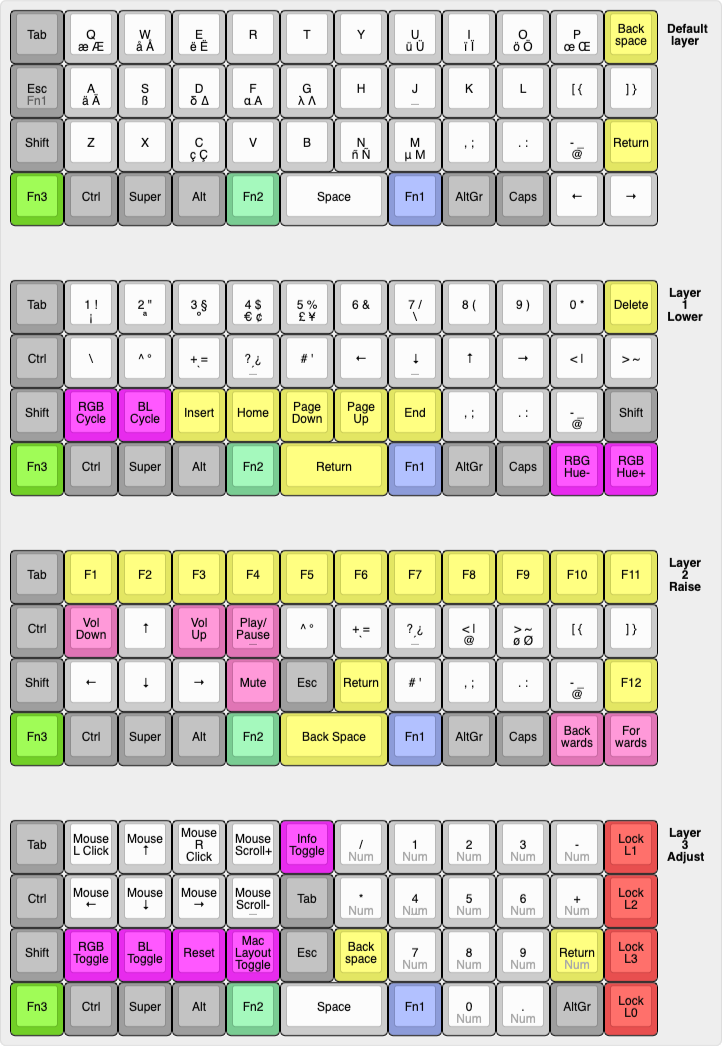
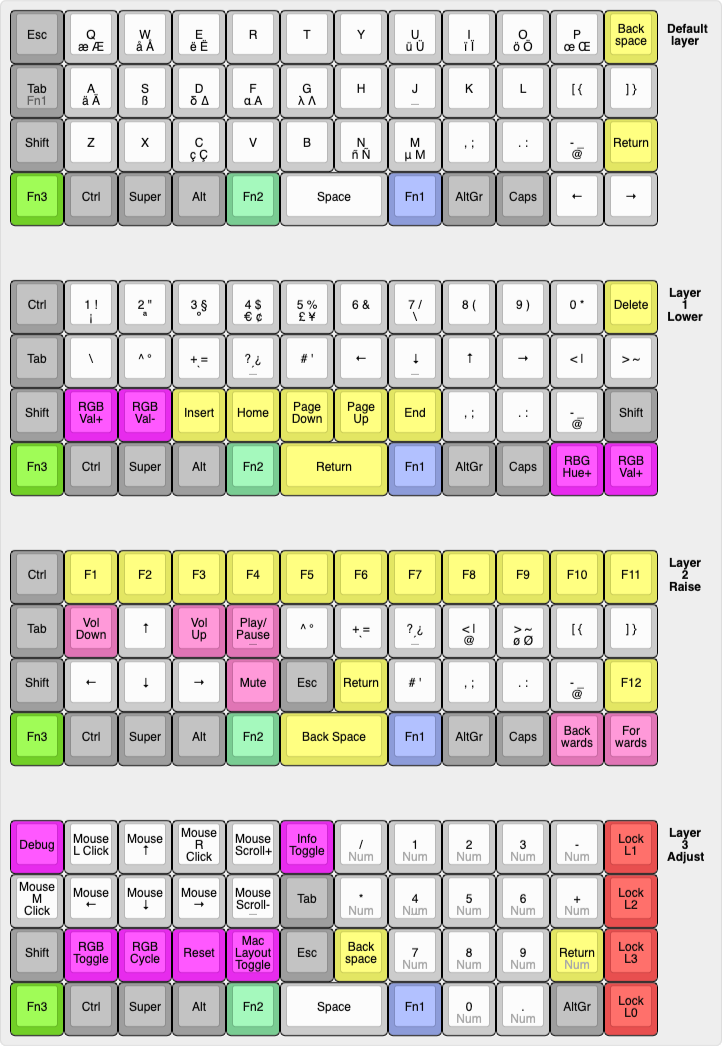
improvements to the keymap - updated keymap a bit (swapped esc and tab, changed some rgb related things, ...) - fixed bugs in the keymap which weren't apparent before actually trying to use it on an actual device - added basic debugging support (when enabled prints the current layer)

diff --git a/keymap.c b/keymap.c
@@ -15,6 +15,9 @@
  */
 
 #include QMK_KEYBOARD_H
+#ifdef CONSOLE_ENABLE
+#include <print.h>
+#endif
 
 enum leds {
 	LED00, LED01, LED02,
@@ -70,77 +73,77 @@ const uint16_t PROGMEM keymaps[][MATRIX_ROWS][MATRIX_COLS] = {
 
 	/* Linux - Base
 	 * ,-----------------------------------------------------------------------------------.
-	 * | Tab  |   Q  |   W  |   E  |   R  |   T  |   Y  |   U  |   I  |   O  |   P  | Bksp |
+	 * | Esc  |   Q  |   W  |   E  |   R  |   T  |   Y  |   U  |   I  |   O  |   P  | Bksp |
 	 * |------+------+------+------+------+-------------+------+------+------+------+------|
-	 * | Esc  |   A  |   S  |   D  |   F  |   G  |   H  |   J  |   K  |   L  |   [  |  ]   |
+	 * | Tab  |   A  |   S  |   D  |   F  |   G  |   H  |   J  |   K  |   L  |   [  |  ]   |
 	 * |------+------+------+------+------+------|------+------+------+------+------+------|
 	 * | Shift|   Z  |   X  |   C  |   V  |   B  |   N  |   M  |   ,  |   .  |   /  |Enter |
 	 * |------+------+------+------+------+------+------+------+------+------+------+------|
-	 * |  Fn1 | Ctrl | Super|  Alt | Raise|    Space    | Lower|AltGr | Caps | Left |Right |
+	 * |Adjust| Ctrl | Super|  Alt | Raise|    Space    | Lower|AltGr | Caps | Left |Right |
 	 * `-----------------------------------------------------------------------------------'
    */
 	[_L_BASE] = LAYOUT_planck_mit(
-		KC_TAB,        KC_Q,    KC_W,    KC_E,    KC_R,    KC_T, KC_Y, KC_U,    KC_I,    KC_O,    KC_P,     KC_BSPC, 
-		_ESCAPE_LOWER, KC_A,    KC_S,    KC_D,    KC_F,    KC_G, KC_H, KC_J,    KC_K,    KC_L,    KC_LBRC,  KC_RBRC, 
-		KC_LSFT,       KC_Z,    KC_X,    KC_C,    KC_V,    KC_B, KC_N, KC_M,    KC_COMM, KC_DOT,  KC_SLSH,  KC_ENT, 
-		L_ADJUST,      KC_LCTL, KC_LGUI, KC_LALT, L_RAISE, KC_SPC,     L_LOWER, KC_RALT, KC_CAPS, KC_LEFT,  KC_RGHT),
+		KC_ESC,       KC_Q,    KC_W,    KC_E,    KC_R,    KC_T, KC_Y, KC_U,    KC_I,    KC_O,    KC_P,     KC_BSPC, 
+		_L_TAB_LOWER, KC_A,    KC_S,    KC_D,    KC_F,    KC_G, KC_H, KC_J,    KC_K,    KC_L,    KC_LBRC,  KC_RBRC, 
+		KC_LSFT,      KC_Z,    KC_X,    KC_C,    KC_V,    KC_B, KC_N, KC_M,    KC_COMM, KC_DOT,  KC_SLSH,  KC_ENT, 
+		L_ADJUST,     KC_LCTL, KC_LGUI, KC_LALT, L_RAISE, KC_SPC,     L_LOWER, KC_RALT, KC_CAPS, KC_LEFT,  KC_RGHT),
 
 	/* Linux Lower
 	 * ,-----------------------------------------------------------------------------------.
-	 * | Tab  |   1  |   2  |   3  |   4  |   5  |   6  |   7  |   8  |   9  |   0  | Del  |
+	 * | Ctrl |   1  |   2  |   3  |   4  |   5  |   6  |   7  |   8  |   9  |   0  | Del  |
 	 * |------+------+------+------+------+-------------+------+------+------+------+------|
-	 * | Ctrl |  \*  |   ^  |   -  |   =  |   \  | Left | Down |  Up  |Right |   ;  |  '   |
+	 * | Tab  |  \*  |   ^  |   -  |   =  |   \  | Left | Down |  Up  |Right |   ;  |  '   |
 	 * |------+------+------+------+------+------|------+------+------+------+------+------|
-	 * | Shift| RGB C| BL C |  Ins | Home | P Up |P Down| End  |   ,  |   .  |   /  |Shift |
+	 * | Shift| Val- | Val+ |  Ins | Home | P Up |P Down| End  |   ,  |   .  |   /  |Shift |
 	 * |------+------+------+------+------+------+------+------+------+------+------+------|
-	 * | Lower| Ctrl | Super|  Alt | Raise|    Enter    |Lower |AltGr | Caps | Hue+ | Val+ |
+	 * |Adjust| Ctrl | Super|  Alt | Raise|    Enter    |Lower |AltGr | Caps | Hue+ | Sat+ |
 	 * `-----------------------------------------------------------------------------------'
    */
 	[_L_LOWER] = LAYOUT_planck_mit(
-		KC_TAB,  KC_1,    	   KC_2,    KC_3,    KC_4,    KC_5,    KC_6,    KC_7,    KC_8,    KC_9,     KC_0,    KC_DEL, 
-		KC_RCTL, _L_BACKSLASH, KC_GRV,  KC_MINS, KC_EQL,  KC_BSLS, KC_LEFT, KC_DOWN, KC_UP,   KC_RGHT,  KC_SCLN, KC_QUOT, 
-		KC_TRNS, RGB_TOG,			 BL_TOGG, KC_INS,  KC_HOME, KC_PGDN, KC_PGUP, KC_END,  KC_COMM, KC_DOT,   KC_SLSH, KC_RSFT, 
-		KC_TRNS, KC_TRNS,			 KC_TRNS, KC_TRNS, KC_TRNS, KC_ENT,           KC_TRNS, KC_TRNS, KC_TRNS,  RGB_HUI, RGB_VAI),
+		KC_RCTL, KC_1,    	   KC_2,    KC_3,    KC_4,    KC_5,    KC_6,    KC_7,    KC_8,    KC_9,     KC_0,    KC_DEL, 
+		KC_TRNS, _L_BACKSLASH, KC_GRV,  KC_MINS, KC_EQL,  KC_BSLS, KC_LEFT, KC_DOWN, KC_UP,   KC_RGHT,  KC_SCLN, KC_QUOT, 
+		KC_TRNS, RGB_VAD,			 RGB_VAI, KC_INS,  KC_HOME, KC_PGDN, KC_PGUP, KC_END,  KC_COMM, KC_DOT,   KC_SLSH, KC_RSFT, 
+		KC_TRNS, KC_TRNS,			 KC_TRNS, KC_TRNS, KC_TRNS, KC_ENT,           KC_TRNS, KC_TRNS, KC_TRNS,  RGB_HUI, RGB_SAI),
 
 	/* Linux Raise
 	 * ,-----------------------------------------------------------------------------------.
-	 * | Tab  |  F1  |  F2  |  F3  |  F4  |  F5  |  F6  |  F7  |  F8  |  F9  | F10  | F11  |
+	 * | Ctrl  |  F1  |  F2  |  F3  |  F4  |  F5  |  F6  |  F7  |  F8  |  F9  | F10  | F11  |
 	 * |------+------+------+------+------+-------------+------+------+------+------+------|
-	 * | Ctrl |Vol Up|  Up  |VolDwn| Play |      |      |      |      |      |   [  |  ]   |
+	 * | Tab  |Vol Up|  Up  |VolDwn| Play |      |      |      |      |      |   [  |  ]   |
 	 * |------+------+------+------+------+------|------+------+------+------+------+------|
 	 * | Shift| Left | Down | Right| Mute |  Esc |Enter | End  |   ,  |   .  |   /  | F12  |
 	 * |------+------+------+------+------+------+------+------+------+------+------+------|
-	 * | Lower| Ctrl | Super|  Alt | Raise|  Backspace  |Lower |AltGr | Caps | Bckw | Forw |
+	 * |Adjust| Ctrl | Super|  Alt | Raise|  Backspace  |Lower |AltGr | Caps | Bckw | Forw |
 	 * `-----------------------------------------------------------------------------------'
    */
 	[_L_RAISE] = LAYOUT_planck_mit(
-		KC_TAB,  KC_F1,   KC_F2,   KC_F3,   KC_F4,   KC_F5,   KC_F6,   KC_F7,   KC_F8,   KC_F9,    KC_F10,     KC_F11, 
-		KC_RCTL, KC_VOLD, KC_UP,   KC_VOLU, KC_MPLY, KC_GRV,  KC_MINS, KC_EQL,  KC_SCLN, KC_QUOT,  KC_LBRC,    KC_RBRC, 
+		KC_TRNS, KC_F1,   KC_F2,   KC_F3,   KC_F4,   KC_F5,   KC_F6,   KC_F7,   KC_F8,   KC_F9,    KC_F10,     KC_F11, 
+		KC_TRNS,  KC_VOLD, KC_UP,   KC_VOLU, KC_MPLY, KC_GRV,  KC_MINS, KC_EQL,  KC_SCLN, KC_QUOT,  KC_LBRC,    KC_RBRC, 
 		KC_TRNS, KC_LEFT, KC_DOWN, KC_RGHT, KC_MUTE, KC_ESC,  KC_ENT,  KC_BSLS, KC_COMM, KC_DOT,   KC_SLSH,    KC_F12, 
 		KC_TRNS, KC_TRNS, KC_TRNS, KC_TRNS, KC_TRNS, KC_BSPC,          KC_TRNS, KC_TRNS, KC_TRNS,  _BACKWARDS, _FORWARDS),
 
 	/* Linux Adjust
 	 * ,-----------------------------------------------------------------------------------.
-	 * | Tab  | Btn1 | M Up | Btn2 |Scrll+| InfT |   /  |   1  |   2  |   3  |   -  | Lck1 |
+	 * | Ctrl | Btn1 | M Up | Btn2 |Scrll+| InfT |   /  |   1  |   2  |   3  |   -  | Lck1 |
 	 * |------+------+------+------+------+-------------+------+------+------+------+------|
-	 * | Ctrl |M Left|M Down|MRight|Scrll-|  Tab |   *  |   4  |   5  |   6  |   +  | Lck2 |
+	 * | Tab  |M Left|M Down|MRight|Scrll-|  Tab |   *  |   4  |   5  |   6  |   +  | Lck2 |
 	 * |------+------+------+------+------+------|------+------+------+------+------+------|
-	 * | Shift| RGB T| BL T | Reset|  Mac |  Esc | Bksp |   7  |   8  |   9  |Enter | Lck3 |
+	 * | Shift| RGB T| Cycle| Reset|  Mac |  Esc | Bksp |   7  |   8  |   9  |Enter | Lck3 |
 	 * |------+------+------+------+------+------+------+------+------+------+------+------|
-	 * | Lower| Ctrl | Super|  Alt | Raise|    Space    |Lower |   0  |   .  |AltGr | Lck0 |
+	 * |Adjust| Ctrl | Super|  Alt | Raise|    Space    |Lower |   0  |   .  |AltGr | Lck0 |
 	 * `-----------------------------------------------------------------------------------'
    */
 	[_L_ADJUST] = LAYOUT_planck_mit(
-		KC_TAB,  KC_BTN1, KC_MS_U, KC_BTN2, KC_WH_U, KC_NO,  KC_PSLS,  KC_P1,   KC_P2,   KC_P3,    KC_PMNS, L_D_LOWER, 
-		KC_RCTL, KC_MS_L, KC_MS_D, KC_MS_R, KC_WH_D, KC_TAB, KC_PAST,  KC_P4,   KC_P5,   KC_P6,    KC_PPLS, L_D_RAISE, 
-		KC_TRNS, RGB_TOG, BL_TOGG, RESET,   L_TO_M,  KC_ESC, KC_BSPC,  KC_P7,   KC_P8,   KC_P9,    KC_PENT, L_D_ADJUST, 
-		KC_TRNS, KC_TRNS, KC_TRNS, KC_TRNS, KC_TRNS, KC_SPC,           KC_TRNS, KC_P0,   KC_PDOT,  KC_RALT, L_D_BASE),
+		KC_TRNS, KC_BTN1, KC_MS_U,					KC_BTN2, KC_WH_U, KC_NO,  KC_PSLS,  KC_P1,   KC_P2,   KC_P3,    KC_PMNS, L_D_LOWER, 
+		KC_TRNS,  KC_MS_L, KC_MS_D,					KC_MS_R, KC_WH_D, KC_TAB, KC_PAST,  KC_P4,   KC_P5,   KC_P6,    KC_PPLS, L_D_RAISE, 
+		KC_TRNS, RGB_TOG, RGB_MODE_FORWARD, RESET,   L_TO_M,  KC_ESC, KC_BSPC,  KC_P7,   KC_P8,   KC_P9,    KC_PENT, L_D_ADJUST, 
+		KC_TRNS, KC_TRNS, KC_TRNS,					KC_TRNS, KC_TRNS, KC_SPC,           KC_TRNS, KC_P0,   KC_PDOT,  KC_RALT, L_D_BASE),
 
 	/* MacOS - Base
 	 * ,-----------------------------------------------------------------------------------.
-	 * | Tab  |   Q  |   W  |   E  |   R  |   T  |   Y  |   U  |   I  |   O  |   P  | Bksp |
+	 * | Esc  |   Q  |   W  |   E  |   R  |   T  |   Y  |   U  |   I  |   O  |   P  | Bksp |
 	 * |------+------+------+------+------+-------------+------+------+------+------+------|
-	 * | Esc  |   A  |   S  |   D  |   F  |   G  |   H  |   J  |   K  |   L  |   [  |  ]   |
+	 * | Tab  |   A  |   S  |   D  |   F  |   G  |   H  |   J  |   K  |   L  |   [  |  ]   |
 	 * |------+------+------+------+------+------|------+------+------+------+------+------|
 	 * | Shift|   Z  |   X  |   C  |   V  |   B  |   N  |   M  |   ,  |   .  |   /  |Enter |
 	 * |------+------+------+------+------+------+------+------+------+------+------+------|
@@ -148,33 +151,33 @@ const uint16_t PROGMEM keymaps[][MATRIX_ROWS][MATRIX_COLS] = {
 	 * `-----------------------------------------------------------------------------------'
    */
 	[_M_BASE] = LAYOUT_planck_mit(
-		KC_TAB,        KC_Q,    KC_W,    KC_E,    KC_R,    KC_T, KC_Y, KC_U,    KC_I,    KC_O,    KC_P,     KC_BSPC, 
-		_ESCAPE_LOWER, KC_A,    KC_S,    KC_D,    KC_F,    KC_G, KC_H, KC_J,    KC_K,    KC_L,    KC_LBRC,  KC_RBRC, 
-		KC_LSFT,       KC_Z,    KC_X,    KC_C,    KC_V,    KC_B, KC_N, KC_M,    KC_COMM, KC_DOT,  KC_SLSH,  KC_ENT, 
-		_M_FN,         KC_LCTL, KC_LALT, KC_LGUI, M_RAISE, KC_SPC,     M_LOWER, KC_RALT, KC_CAPS, KC_LEFT,  KC_RGHT),
+		KC_ESC,       KC_Q,    KC_W,    KC_E,    KC_R,    KC_T, KC_Y, KC_U,    KC_I,    KC_O,    KC_P,     KC_BSPC, 
+		_M_TAB_LOWER, KC_A,    KC_S,    KC_D,    KC_F,    KC_G, KC_H, KC_J,    KC_K,    KC_L,    KC_LBRC,  KC_RBRC, 
+		KC_LSFT,      KC_Z,    KC_X,    KC_C,    KC_V,    KC_B, KC_N, KC_M,    KC_COMM, KC_DOT,  KC_SLSH,  KC_ENT, 
+		_M_FN,        KC_LCTL, KC_LALT, KC_LGUI, M_RAISE, KC_SPC,     M_LOWER, KC_RALT, KC_CAPS, KC_LEFT,  KC_RGHT),
 
 	/* MacOS Lower
 	 * ,-----------------------------------------------------------------------------------.
-	 * | Tab  |   1  |   2  |   3  |   4  |   5  |   6  |   7  |   8  |   9  |   0  | Del  |
+	 * | Ctrl |   1  |   2  |   3  |   4  |   5  |   6  |   7  |   8  |   9  |   0  | Del  |
 	 * |------+------+------+------+------+-------------+------+------+------+------+------|
-	 * | Ctrl |  \*  |   ^  |   -  |   =  |   \  | Left | Down |  Up  |Right |   ;  |  '   |
+	 * | Tab  |  \*  |   ^  |   -  |   =  |   \  | Left | Down |  Up  |Right |   ;  |  '   |
 	 * |------+------+------+------+------+------|------+------+------+------+------+------|
-	 * | Shift| RGB C| BL C |  Ins | Home | P Up |P Down| End  |   ,  |   .  |   /  |Enter |
+	 * | Shift| Val- | Val+ |  Ins | Home | P Up |P Down| End  |   ,  |   .  |   /  |Enter |
 	 * |------+------+------+------+------+------+------+------+------+------+------+------|
-	 * |  Fn  | Ctrl |  Alt | Super| Raise|    Enter    |Lower |AltGr | Caps | Left |Right |
+	 * |  Fn  | Ctrl |  Alt | Super| Raise|    Enter    |Lower |AltGr | Caps | Hue+ | Sat+ |
 	 * `-----------------------------------------------------------------------------------'
    */
 	[_M_LOWER] = LAYOUT_planck_mit(
-		KC_TAB,  KC_1,   		   KC_2,    KC_3,    KC_4,    KC_5,    KC_6,    KC_7,    KC_8,    KC_9,     KC_0,    KC_DEL, 
-		KC_RCTL, _M_BACKSLASH, KC_GRV,  KC_MINS, KC_EQL,  KC_BSLS, KC_LEFT, KC_DOWN, KC_UP,   KC_RGHT,  KC_SCLN, KC_QUOT, 
-		KC_TRNS, RGB_TOG,		   BL_TOGG, KC_INS,  KC_HOME, KC_PGDN, KC_PGUP, KC_END,  KC_COMM, KC_DOT,   KC_SLSH, KC_RSFT, 
-		KC_TRNS, KC_TRNS,		   KC_TRNS, KC_TRNS, KC_TRNS, KC_ENT,           KC_TRNS, KC_TRNS, KC_TRNS,  RGB_HUD, RGB_HUI),
+		KC_RCTL, 			KC_1,   		  KC_2,    KC_3,    KC_4,    KC_5,    KC_6,    KC_7,    KC_8,    KC_9,     KC_0,    KC_DEL, 
+		_M_TAB_LOWER, _M_BACKSLASH,	KC_GRV,  KC_MINS, KC_EQL,  KC_BSLS, KC_LEFT, KC_DOWN, KC_UP,   KC_RGHT,  KC_SCLN, KC_QUOT, 
+		KC_TRNS, 			RGB_VAD,			RGB_VAI, KC_INS,  KC_HOME, KC_PGDN, KC_PGUP, KC_END,  KC_COMM, KC_DOT,   KC_SLSH, KC_RSFT, 
+		KC_TRNS, 			KC_TRNS,		  KC_TRNS, KC_TRNS, KC_TRNS, KC_ENT,           KC_TRNS, KC_TRNS, KC_TRNS,  RGB_HUI, RGB_SAI),
 
 	/* MacOS Raise
 	 * ,-----------------------------------------------------------------------------------.
-	 * | Tab  |  F1  |  F2  |  F3  |  F4  |  F5  |  F6  |  F7  |  F8  |  F9  | F10  | F11  |
+	 * | Ctrl |  F1  |  F2  |  F3  |  F4  |  F5  |  F6  |  F7  |  F8  |  F9  | F10  | F11  |
 	 * |------+------+------+------+------+-------------+------+------+------+------+------|
-	 * | Ctrl |Vol Up|  Up  |VolDwn| Play |      |      |      |      |      |   [  |  ]   |
+	 * | Tab  |Vol Up|  Up  |VolDwn| Play |      |      |      |      |      |   [  |  ]   |
 	 * |------+------+------+------+------+------|------+------+------+------+------+------|
 	 * | Shift| Left | Down | Right| Mute |  Esc |Enter | End  |   ,  |   .  |   /  | F12  |
 	 * |------+------+------+------+------+------+------+------+------+------+------+------|
@@ -182,27 +185,27 @@ const uint16_t PROGMEM keymaps[][MATRIX_ROWS][MATRIX_COLS] = {
 	 * `-----------------------------------------------------------------------------------'
    */
 	[_M_RAISE] = LAYOUT_planck_mit(
-		KC_TAB,  KC_F1,   KC_F2,   KC_F3,   KC_F4,   KC_F5,   KC_F6,   KC_F7,   KC_F8,   KC_F9,    KC_F10,     KC_F11, 
+		KC_TRNS,  KC_F1,   KC_F2,   KC_F3,   KC_F4,   KC_F5,   KC_F6,   KC_F7,   KC_F8,   KC_F9,    KC_F10,     KC_F11, 
 		KC_TRNS, KC_VOLD, KC_UP,   KC_VOLU, KC_MPLY, KC_GRV,  KC_MINS, KC_EQL,  KC_SCLN, KC_QUOT,  KC_LBRC,    KC_RBRC, 
 		KC_TRNS, KC_LEFT, KC_DOWN, KC_RGHT, KC_MUTE, KC_ESC,  KC_ENT,  KC_BSLS, KC_COMM, KC_DOT,   KC_SLSH,    KC_F12, 
 		KC_TRNS, KC_TRNS, KC_TRNS, KC_TRNS, KC_TRNS, KC_BSPC,          KC_TRNS, KC_TRNS, KC_TRNS,  _BACKWARDS, _FORWARDS),
 
   /* MacOS Adjust
 	 * ,-----------------------------------------------------------------------------------.
-	 * | Tab  | Btn1 | M Up | Btn2 |Scrll+| InfT |   /  |   1  |   2  |   3  |   -  | Lck1 |
+	 * | Ctrl | Btn1 | M Up | Btn2 |Scrll+| InfT |   /  |   1  |   2  |   3  |   -  | Lck1 |
 	 * |------+------+------+------+------+-------------+------+------+------+------+------|
-	 * | Ctrl |M Left|M Down|MRight|Scrll-|  Tab |   *  |   4  |   5  |   6  |   +  | Lck2 |
+	 * | Tab  |M Left|M Down|MRight|Scrll-|  Tab |   *  |   4  |   5  |   6  |   +  | Lck2 |
 	 * |------+------+------+------+------+------|------+------+------+------+------+------|
-	 * | Shift| RGB T| BL T | Reset| Linux|  Esc | Bksp |   7  |   8  |   9  |Enter | Lck3 |
+	 * | Shift| RGB T| Cycle| Reset| Linux|  Esc | Bksp |   7  |   8  |   9  |Enter | Lck3 |
 	 * |------+------+------+------+------+------+------+------+------+------+------+------|
 	 * |  Fn  | Ctrl |  Alt | Super| Raise|    Space    |Lower |   0  |   .  |AltGr | Lck0 |
 	 * `-----------------------------------------------------------------------------------'
    */
 	[_M_ADJUST] = LAYOUT_planck_mit(
-		KC_TAB,  KC_BTN1, KC_MS_U, KC_BTN2, KC_WH_U, INF_TGL, KC_PSLS,  KC_P1,   KC_P2,   KC_P3,    KC_PMNS,  M_D_LOWER, 
-		KC_TRNS, KC_MS_L, KC_MS_D, KC_MS_R, KC_WH_D, KC_TAB,  KC_PAST,  KC_P4,   KC_P5,   KC_P6,    KC_PPLS,  M_D_RAISE, 
-		KC_TRNS, RGB_TOG, BL_TOGG, RESET,   M_TO_L,  KC_ESC,  KC_BSPC,  KC_P7,   KC_P8,   KC_P9,    KC_PENT,  M_D_ADJUST, 
-		KC_TRNS, KC_TRNS, KC_TRNS, KC_TRNS, KC_TRNS, KC_SPC,             KC_TRNS, KC_P0,   KC_PDOT,  KC_RALT, M_D_BASE)
+		DEBUG,   KC_BTN1, 									KC_MS_U, KC_BTN2, KC_WH_U, INF_TGL, KC_PSLS,  KC_P1,   KC_P2,   KC_P3,    KC_PMNS,  M_D_LOWER, 
+		KC_BTN3, KC_MS_L, 									KC_MS_D, KC_MS_R, KC_WH_D, KC_TAB,  KC_PAST,  KC_P4,   KC_P5,   KC_P6,    KC_PPLS,  M_D_RAISE, 
+		KC_TRNS, RGB_TOG, RGB_MODE_FORWARD, RESET,   M_TO_L,  KC_ESC,  KC_BSPC,  KC_P7,   KC_P8,   KC_P9,    KC_PENT,  M_D_ADJUST, 
+		KC_TRNS, KC_TRNS, 									KC_TRNS, KC_TRNS, KC_TRNS, KC_SPC,             KC_TRNS, KC_P0,   KC_PDOT,  KC_RALT, M_D_BASE)
 
 };
 
@@ -309,21 +312,48 @@ bool process_record_user(uint16_t keycode, keyrecord_t *record) {
 		}
 		return false;
     case L_LOWER:
-    if(record->event.pressed) layer_on(_L_LOWER);
-    else                      layer_off(_L_LOWER);
-    update_tri_layer(_L_LOWER, _L_RAISE, _L_ADJUST);
-    return false;
+			if(record->event.pressed) {
+				layer_on(_L_LOWER);
+				#ifdef CONSOLE_ENABLE
+					print("L_LOWER down\n");
+				#endif
+			} else {
+				layer_off(_L_LOWER);
+				#ifdef CONSOLE_ENABLE
+					print("L_LOWER up\n");
+				#endif
+			}
+			update_tri_layer(_L_LOWER, _L_RAISE, _L_ADJUST);
+			return false;
 
 		case L_RAISE:
-    if(record->event.pressed) layer_on(_L_RAISE);
-		else                      layer_off(_L_RAISE);
-    update_tri_layer(_L_LOWER, _L_RAISE, _L_ADJUST);
-		return false;
+			if(record->event.pressed) {
+				layer_on(_L_RAISE);
+				#ifdef CONSOLE_ENABLE
+					print("L_RAISE down\n");
+				#endif
+			} else {
+				layer_off(_L_RAISE);
+				#ifdef CONSOLE_ENABLE
+					print("L_RAISE up\n");
+				#endif
+			}
+			update_tri_layer(_L_LOWER, _L_RAISE, _L_ADJUST);
+			return false;
 
     case L_ADJUST:
-    if(record->event.pressed) layer_on(_L_ADJUST);
-		else                      layer_off(_L_ADJUST);
-		return false;
+			if(record->event.pressed) {
+				#ifdef CONSOLE_ENABLE
+					print("L_ADJST down\n");
+				#endif
+				layer_on(_L_ADJUST);
+			} else {
+				#ifdef CONSOLE_ENABLE
+					print("L_ADJST up\n");
+				#endif
+				layer_off(_L_ADJUST);
+			}
+			return false;
 
 		case L_D_BASE:		if(record->event.pressed) {
       // TODO: what to do here? (change default layer)
@@ -352,21 +382,48 @@ bool process_record_user(uint16_t keycode, keyrecord_t *record) {
 		return false;
 
 		case M_LOWER:
-    if(record->event.pressed) layer_on(_M_LOWER);
-    else                      layer_off(_M_LOWER);
-    update_tri_layer(_M_LOWER, _M_RAISE, _M_ADJUST);
-		return false;
-
+			if(record->event.pressed) {
+				#ifdef CONSOLE_ENABLE
+					print("M_LOWER down\n");
+				#endif
+				layer_on(_M_LOWER);
+			} else {
+				#ifdef CONSOLE_ENABLE
+					print("M_LOWER up\n");
+				#endif
+				layer_off(_M_LOWER);
+			}
+			update_tri_layer(_M_LOWER, _M_RAISE, _M_ADJUST);
+			return false;
+				
 		case M_RAISE:
-    if(record->event.pressed) layer_on(_M_RAISE);
-		else                      layer_off(_M_RAISE);
-    update_tri_layer(_M_LOWER, _M_RAISE, _M_ADJUST);
-		return false;
+			if(record->event.pressed) {
+				#ifdef CONSOLE_ENABLE
+					print("M_RAISE down\n");
+				#endif
+				layer_on(_M_RAISE);
+			} else {
+				#ifdef CONSOLE_ENABLE
+					print("M_RAISE up\n");
+				#endif
+				layer_off(_M_RAISE);
+			}
+			update_tri_layer(_M_LOWER, _M_RAISE, _M_ADJUST);
+			return false;
 
     case M_ADJUST:
-    if(record->event.pressed) layer_on(_M_ADJUST);
-		else                      layer_off(_M_ADJUST);
-		return false;
+			if(record->event.pressed) {
+				#ifdef CONSOLE_ENABLE
+					print("M_ADJST down\n");
+				#endif
+				layer_on(_M_ADJUST);
+			} else {
+				#ifdef CONSOLE_ENABLE
+					print("M_ADJST up\n");
+				#endif
+				layer_off(_M_ADJUST);
+			}
+			return false;
 
     case M_D_BASE:		if(record->event.pressed) {
       // TODO: what to do here? (change default layer)

diff --git a/config.h b/config.h
@@ -26,7 +26,7 @@
 #define LAYER_RAISE_COLORS  RGB_GREEN
 #define LAYER_ADJUST_COLORS RGB_RED
 
-#define WPM_INDICATOR
+/* #define WPM_INDICATOR */
 #define LAYER_INDICATOR
 #define CAPSLOCK_INDICATOR
 #define OS_INDICATOR
@@ -39,7 +39,8 @@
 #define _FORWARDS  LCTL(KC_PGDN)
 
 /* escape normally, but L_LOWER when held down */
-#define _ESCAPE_LOWER MT(L_LOWER, KC_ESC)
+#define _L_TAB_LOWER LT(_L_LOWER, KC_TAB)
+#define _M_TAB_LOWER LT(_M_LOWER, KC_TAB)
 
 /* apple fn key (mapped to F20, needs to be software remapped) */
 #define _M_FN				 KC_F20
